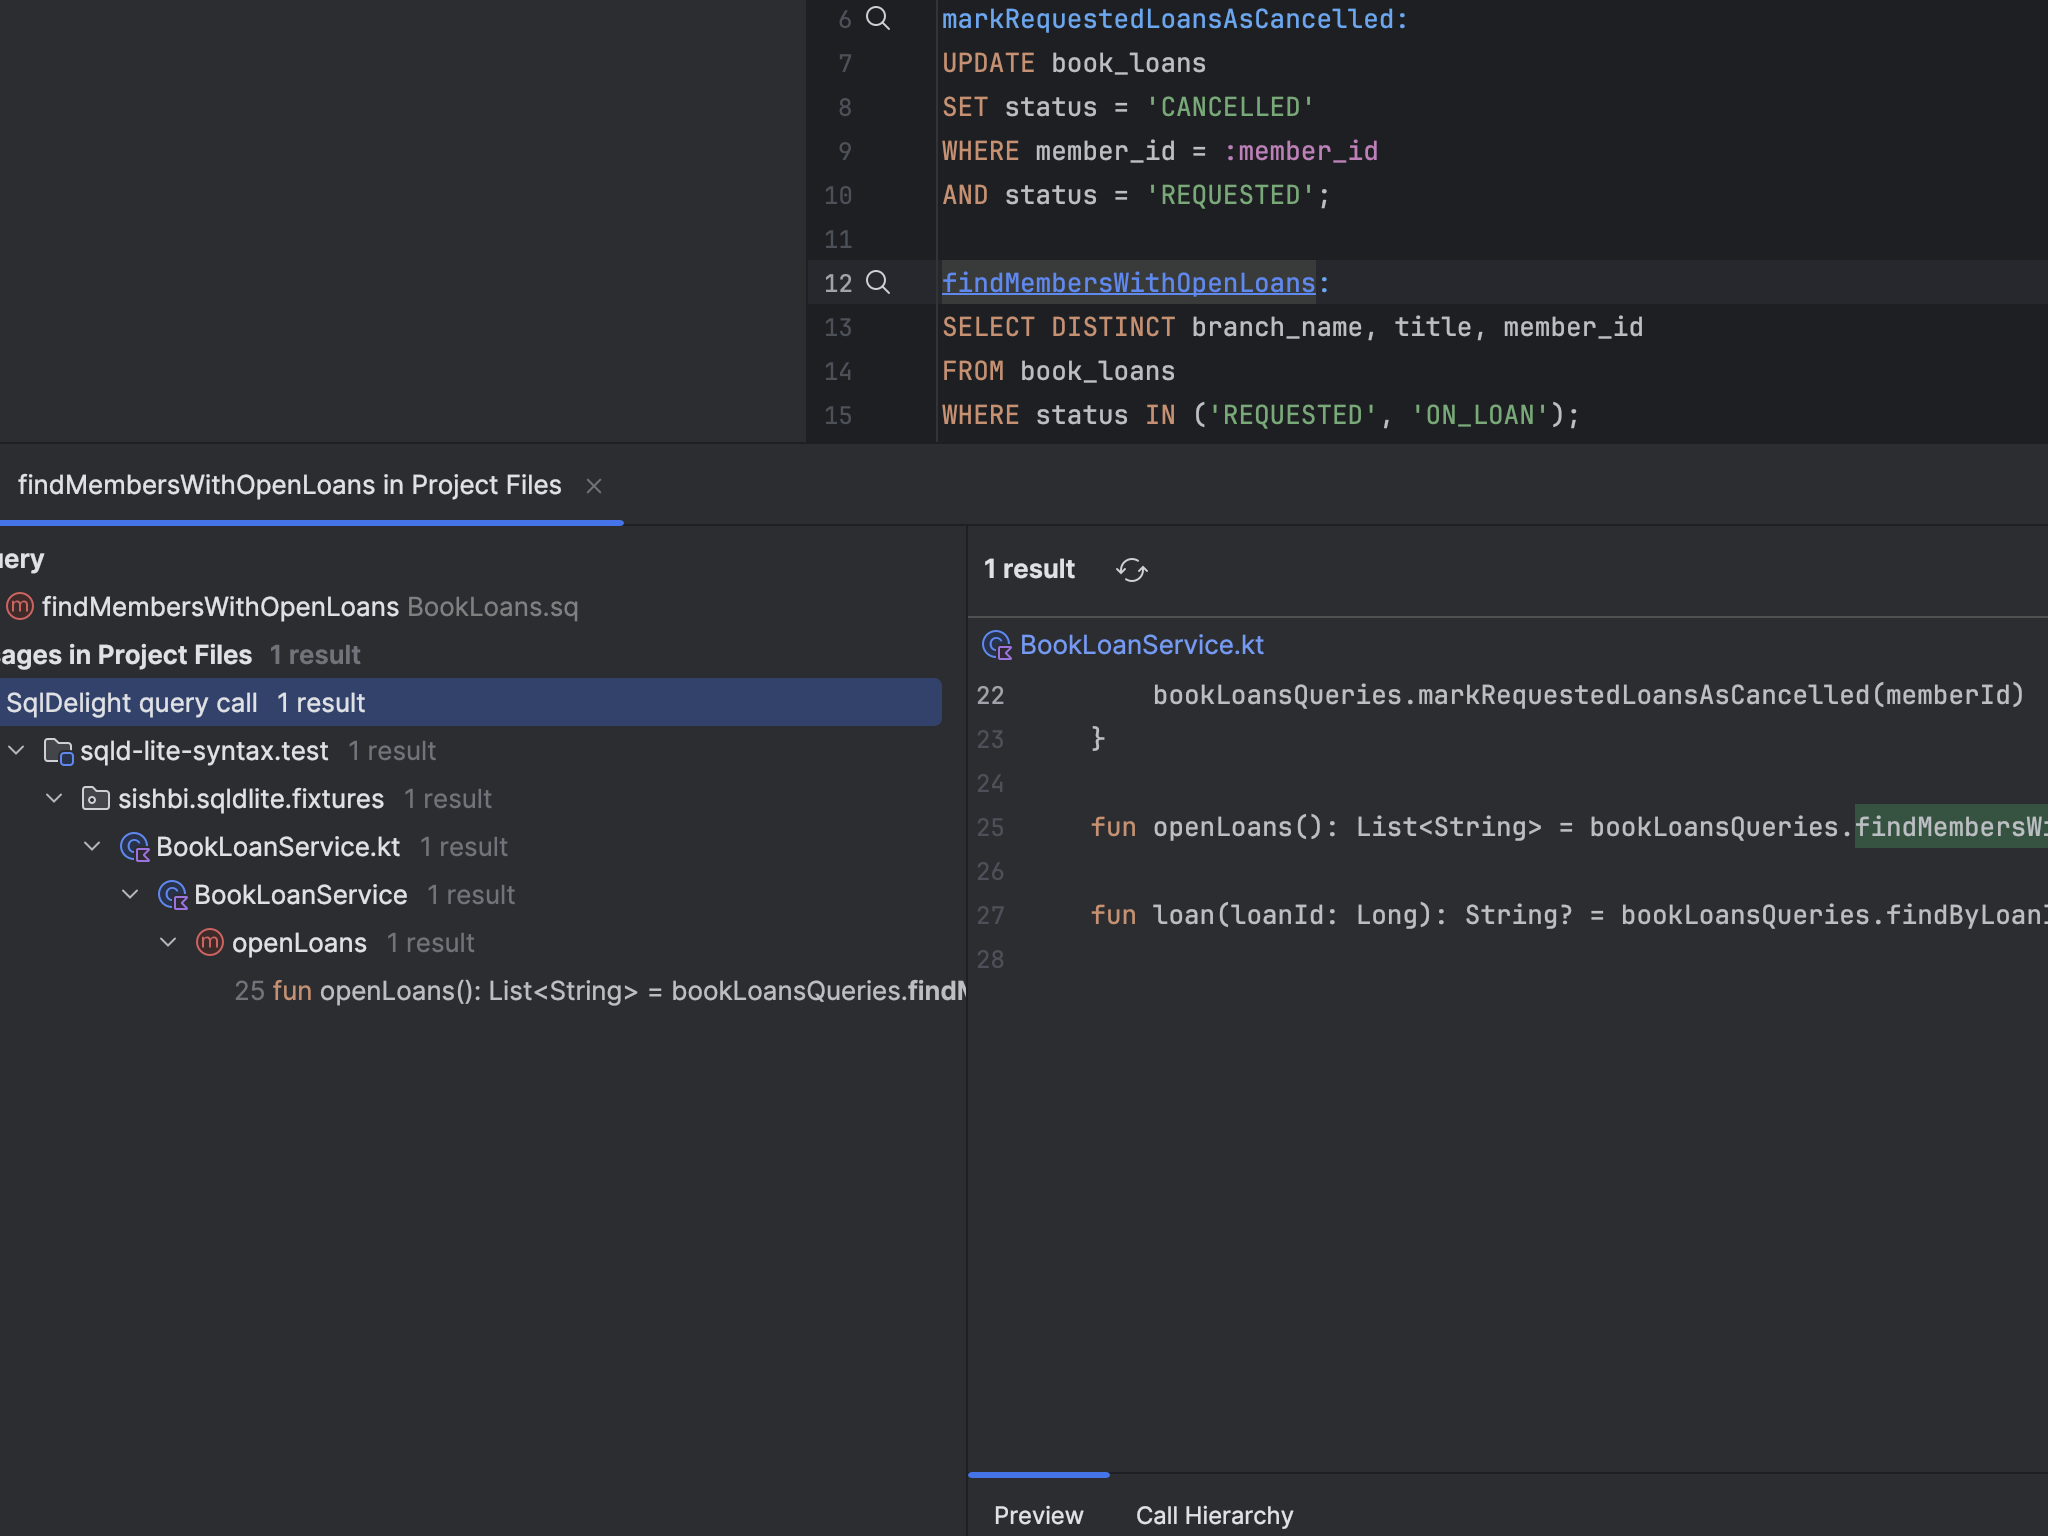
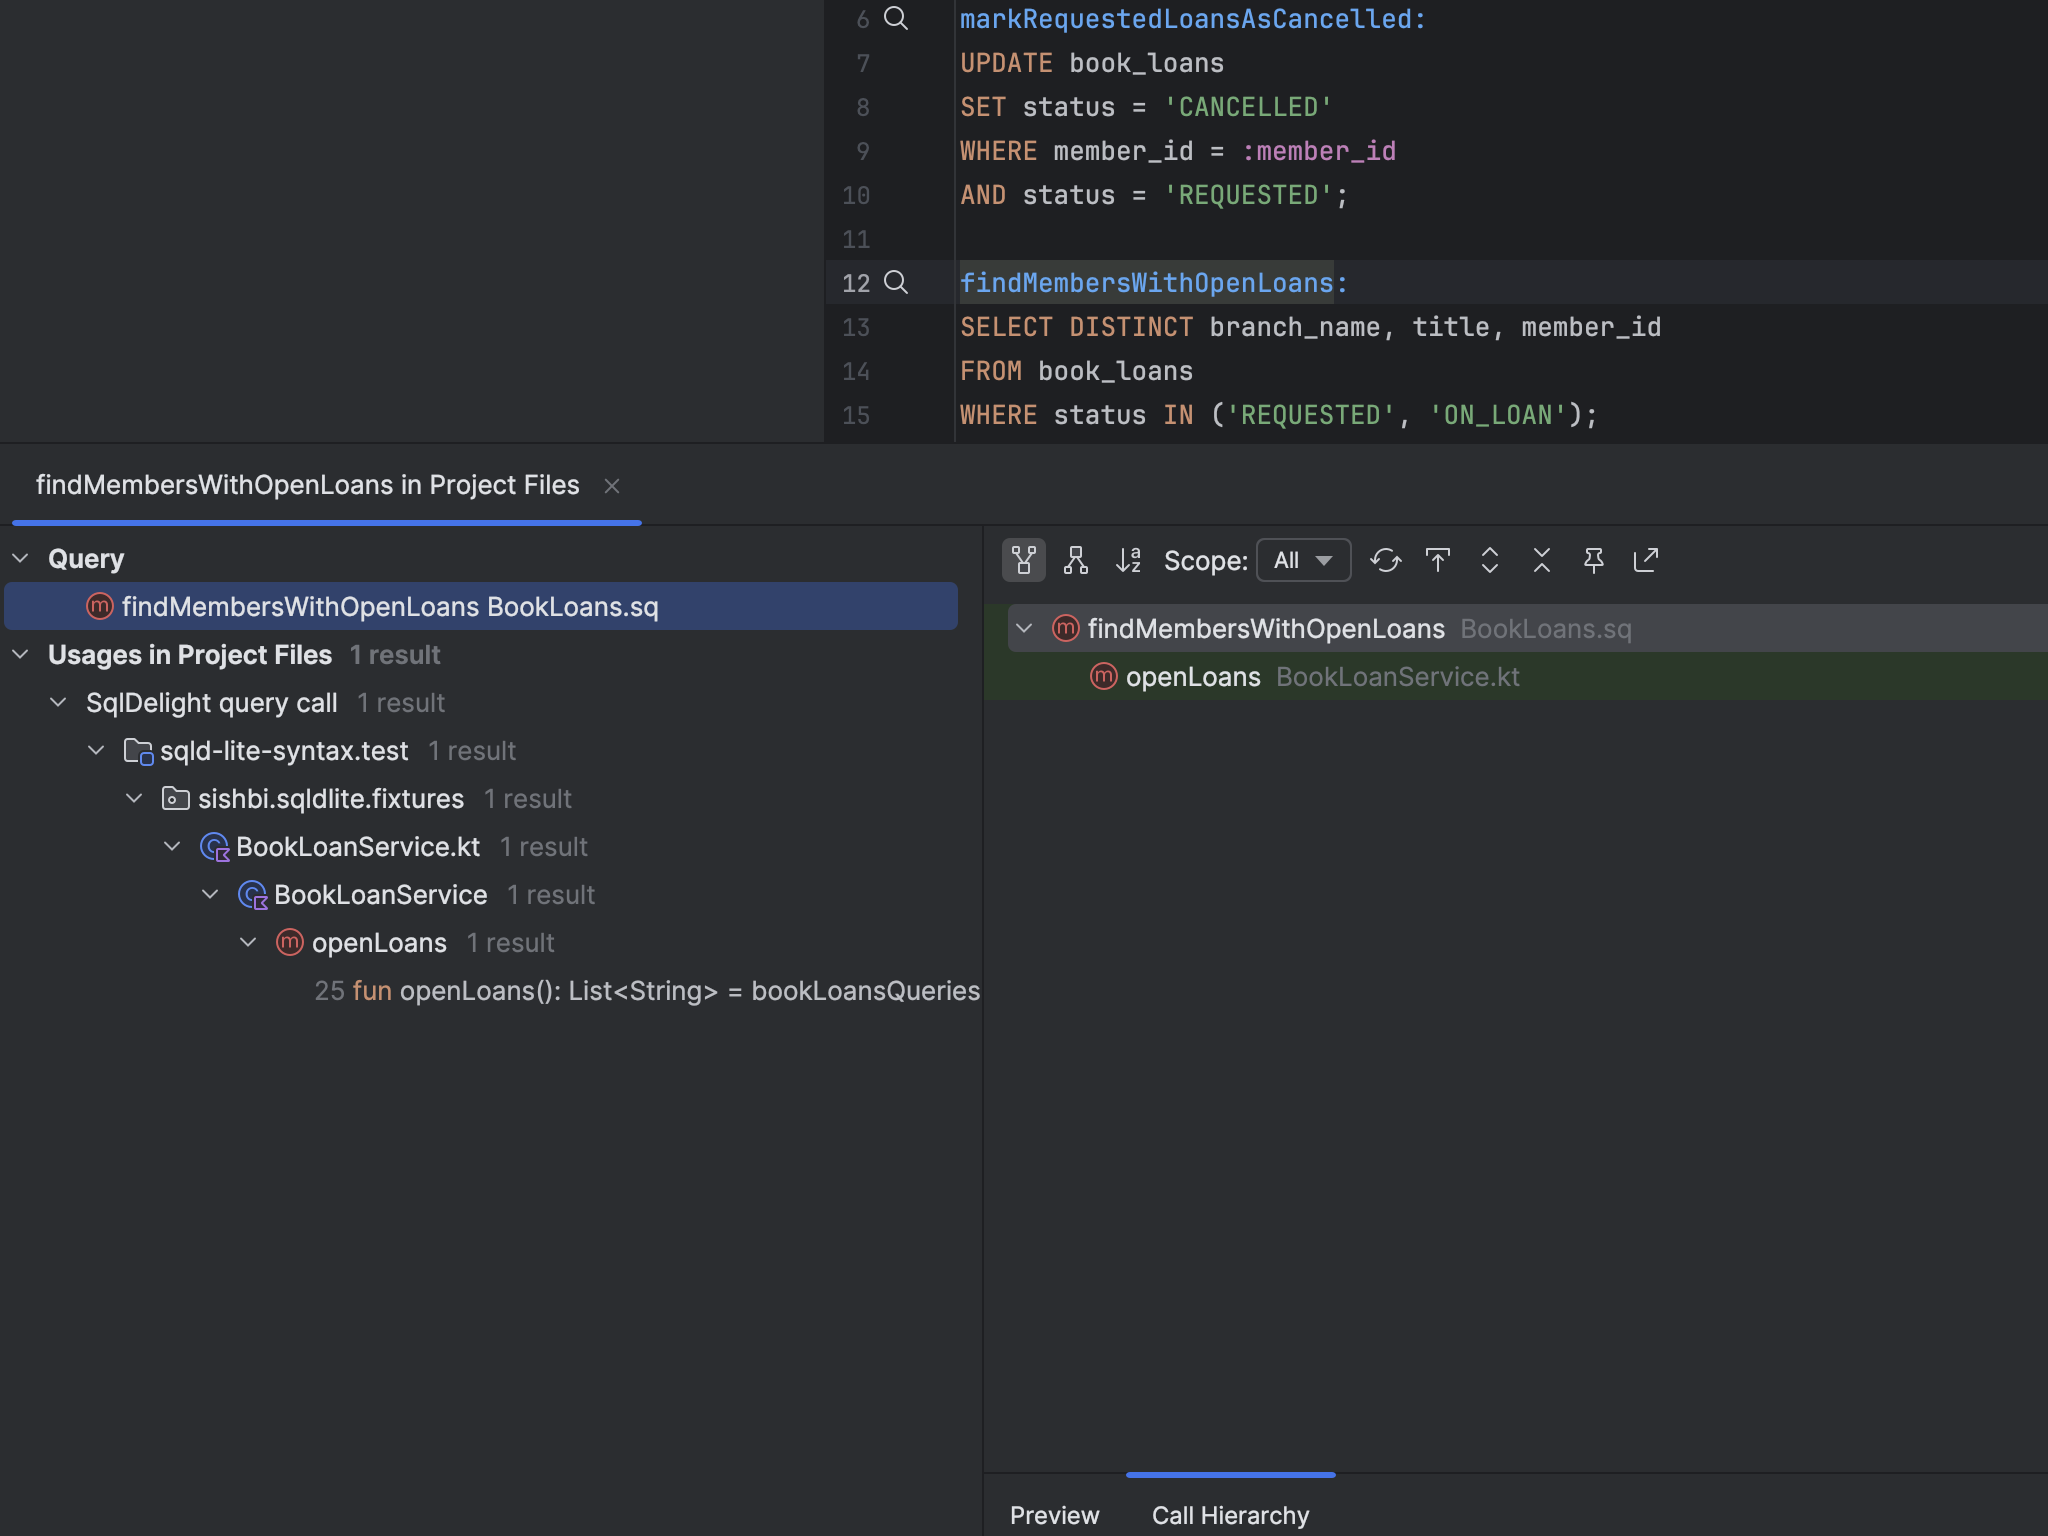
Re-shoot the query Find Usages screenshot, and show Call Hierarchy
- The panel's tree headings were clipped on the left.
- The replacement has the Call Hierarchy tab open, showing the query
  with the Kotlin function that calls it beneath.
- Added the Features bullet for the Call Hierarchy. The list did not
  mention it.

diff --git a/README.md b/README.md
@@ -26,6 +26,8 @@ It generates no code; the SqlDelight Gradle plugin still does that.
 - Cmd-hover and Quick Documentation on a name, saying what it declares: a query as the function a
   caller writes, a query label as the Kotlin that calls it, a bind argument, and a table, view or
   column as the statement that creates it.
+- A Call Hierarchy for a query, showing the Kotlin functions that call it. It has its own tab in the
+  Find Usages panel.
 - A gutter icon on every label listing the same calls, with the count in its tooltip.
 - An inspection that greys out a label no Kotlin code calls, with a quick fix that deletes it.
 
@@ -72,9 +74,10 @@ Go To Declaration from a label offers every call to that query, one row for each
 
 ![The Choose Declaration popup, listing two Kotlin calls to one query](docs/images/goto-multiple-implementations.png)
 
-Find Usages on a query label lists the Kotlin calls under their own group:
+Find Usages on a query label lists the Kotlin calls under their own group, and the panel's Call
+Hierarchy tab shows the query with the function that calls it beneath:
 
-![Find Usages on a query label, listing the Kotlin call](docs/images/find-usages-query.png)
+![Find Usages on a query label, with the Call Hierarchy tab showing the calling function](docs/images/find-usages-query.png)
 
 Find Usages on the generated Kotlin function reports the `.sq` query it came from, alongside
 everything the Kotlin plugin already finds:
